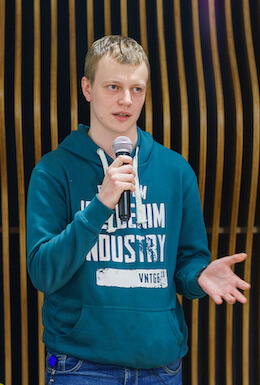
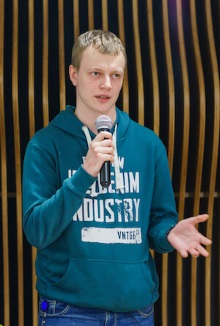
fix mobile about image size

diff --git a/css/style-touch.css b/css/style-touch.css
@@ -57,8 +57,8 @@
 }
 
 .about-image {
-  width: 260px;
-  height: 385px;
+  width: 220px;
+  height: 326px;
   float: left;
   background-image: url("/img/myself-small.jpg");
   margin-left: 0;
